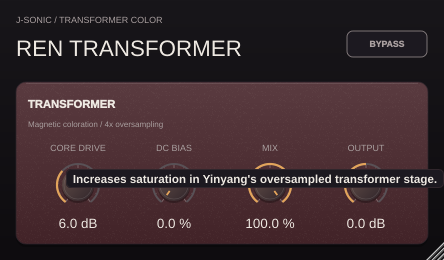
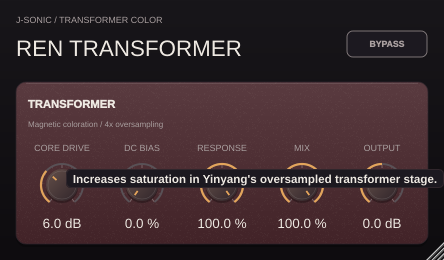
Add Response control to Ren Transformer

diff --git a/projects/RenTransformer/Tests/ProcessorTests.cpp b/projects/RenTransformer/Tests/ProcessorTests.cpp
@@ -6,6 +6,16 @@ namespace
 {
 void transformerTests()
 {
+    character::TransformerCore driveOnly;
+    driveOnly.prepare (192000);
+    double driveError = 0;
+    for (int i = 0; i < 2048; ++i)
+    {
+        const auto input = static_cast<float> (0.31 * std::sin (2 * juce::MathConstants<double>::pi * 233 * i / 192000.0));
+        const auto expected = std::tanh (2.0f * input) / 2.0f;
+        driveError = std::max (driveError, static_cast<double> (std::abs (driveOnly.process (input, 2.0f, 0.7f, 0.0f) - expected)));
+    }
+    check (driveError < 1.0e-6, "zero Response leaves only drive saturation in the transformer core");
     for (double rate : { 44100.0, 48000.0, 96000.0 })
         for (float coreDb : { 0.0f, 6.0f, 18.0f })
         {
@@ -32,6 +42,33 @@ void transformerTests()
             }
             check (error < 1.0e-6, "Ren matches the original Yinyang transformer at three rates and drive levels");
         }
+    {
+        RenTransformerProcessor p; set (p, "response", 0); set (p, "evenHarmonics", 0);
+        p.prepareToPlay (48000, 127);
+        character::OversampledTransformer reference; reference.prepare (48000);
+        juce::MidiBuffer midi;
+        double error = 0, fullDifference = 0;
+        character::OversampledTransformer full; full.prepare (48000);
+        for (int base = 0; base < 4096; base += 127)
+        {
+            juce::AudioBuffer<float> b (2, 127);
+            std::array<float, 127> expected {};
+            for (int i = 0; i < 127; ++i)
+            {
+                const auto input = static_cast<float> (0.3 * std::sin (2 * juce::MathConstants<double>::pi * 137 * (base + i) / 48000.0));
+                b.setSample (0, i, input); b.setSample (1, i, input);
+                const auto drive = juce::Decibels::decibelsToGain (6.0f);
+                expected[static_cast<size_t> (i)] = reference.process (input, drive, 0.0f, 0.0f);
+                const auto complete = full.process (input, drive);
+                if (base >= 1024) fullDifference += std::abs (expected[static_cast<size_t> (i)] - complete);
+            }
+            p.processBlock (b, midi);
+            for (int i = 0; i < 127; ++i)
+                error = std::max (error, static_cast<double> (std::abs (b.getSample (0, i) - expected[static_cast<size_t> (i)])));
+        }
+        check (fullDifference > 0.01, "Response endpoints produce distinct transformer sounds");
+        check (error < 1.0e-6, "Ren zero Response follows the drive-only transformer path");
+    }
     for (int mode = 0; mode < 4; ++mode)
     {
         RenTransformerProcessor p;
@@ -80,10 +117,10 @@ int main (int argc, char** argv)
     {
         juce::ScopedJuceInitialiser_GUI gui;
         verifyParameterRetention<RenTransformerProcessor>();
-        stateTests<RenTransformerProcessor> (6); transformerTests();
+        stateTests<RenTransformerProcessor> (7); transformerTests();
         blockSizeTests<RenTransformerProcessor>();
         if (argc > 2 && juce::String (argv[1]) == "--editor")
-            editorTests<RenTransformerProcessor> (juce::File (argv[2]), 260, 4, 444);
+            editorTests<RenTransformerProcessor> (juce::File (argv[2]), 260, 5, 444);
         std::cout << checks << " Ren Transformer checks passed\n"; return 0;
     }
     catch (const std::exception& error) { std::cerr << "FAIL: " << error.what() << '\n'; return 1; }

diff --git a/projects/YinyangCompressor/Source/TransformerCore.h b/projects/YinyangCompressor/Source/TransformerCore.h
@@ -33,33 +33,41 @@ public:
         for (auto& filter : distortionFilters) filter.reset();
         response.reset();
     }
-    float process (float x, float drive, float evenHarmonics) noexcept
+    float process (float x, float drive, float evenHarmonics, float responseAmount = 1.0f) noexcept
     {
-        // Filter only the generated-distortion residual below. Clean highs
-        // retain the transformer response.
+        // At full Response, filter only the generated-distortion residual.
+        // Ren can reduce both that rolloff and the loaded-transformer filter.
         const auto field = drive * x;
         const auto magnetization = hysteresis.process (field, drive);
         // The field/magnetization difference changes after a reversal. Scale
         // that branch gap to get a compact, rate-independent hysteresis loop.
         constexpr float hysteresisCoupling = 0.35f;
-        const auto effectiveField = field + hysteresisCoupling * (field - magnetization);
+        const auto coupling = hysteresisCoupling * responseAmount;
+        const auto effectiveField = field + coupling * (field - magnetization);
 
         flux = x + fluxCoefficient * (flux - x);
         // Flux adds a small signal-dependent bias for asymmetric coloration.
         // A controlled DC magnetizing current biases the core and makes its
         // transfer curve asymmetric, increasing even-order harmonics. The
         // zero setting preserves the original symmetric operating point.
-        const auto bias = 0.12f * std::tanh (flux * drive) + 0.8f * evenHarmonics;
+        const auto bias = responseAmount * (0.12f * std::tanh (flux * drive) + 0.8f * evenHarmonics);
         const auto b = std::tanh (bias);
         // Bias-corrected tanh, normalized for unity minor-loop small-signal
-        // slope. Filtering only (shaped - x) preserves clean highs while
-        // generated distortion rolls off above 500 Hz.
+        // slope. At full Response, filtering only (shaped - x) preserves clean
+        // highs while generated distortion rolls off above 500 Hz.
         const auto shaped = (std::tanh (effectiveField + bias) - b)
-                          / (drive * (1 + hysteresisCoupling) * (1 - b * b));
-        auto residual = shaped - x;
+                          / (drive * (1 + coupling) * (1 - b * b));
+        const auto rawResidual = shaped - x;
+        auto filteredResidual = rawResidual;
         for (auto& filter : distortionFilters)
-            residual = filter.process (residual);
-        return response.process (x + residual);
+            filteredResidual = filter.process (filteredResidual);
+        // Keep both filters warm at zero Response so automation does not bring
+        // stale filter memory into the sound when the knob rises again.
+        if (responseAmount >= 1.0f)
+            return response.process (x + filteredResidual);
+        const auto driven = x + rawResidual + responseAmount * (filteredResidual - rawResidual);
+        const auto coloured = response.process (driven);
+        return driven + responseAmount * (coloured - driven);
     }
 
 private:

diff --git a/projects/RenTransformer/Source/TransformerStage.h b/projects/RenTransformer/Source/TransformerStage.h
@@ -14,13 +14,14 @@ public:
     {
         for (auto& transformer : transformers) transformer.prepare (rate);
         cleanHistory = {}; bypassHistory = {}; position = 0;
-        for (auto* smoother : { &drive, &bias, &output, &mix, &enabledBlend, &bypassBlend })
+        for (auto* smoother : { &drive, &bias, &output, &mix, &response, &enabledBlend, &bypassBlend })
             smoother->reset (rate, 0.02);
         first = true; running = requested = false; warmSamples = 0;
     }
     bool isRunning() const noexcept { return running; }
     void process (juce::AudioBuffer<float>& buffer, float driveDb, float dcBias,
-                  float outputDb, float amount, bool enabled, bool bypassed) noexcept
+                  float outputDb, float amount, bool enabled, bool bypassed,
+                  float responseAmount = 1.0f) noexcept
     {
         // The nonlinear stage cannot contribute at zero Mix.
         // Existing fade-out and warm-up handling also applies to these states.
@@ -32,6 +33,7 @@ public:
         };
         set (drive, juce::Decibels::decibelsToGain (driveDb)); set (bias, dcBias);
         set (output, juce::Decibels::decibelsToGain (outputDb)); set (mix, amount);
+        set (response, std::clamp (responseAmount, 0.0f, 1.0f));
         set (bypassBlend, bypassed ? 1.0f : 0.0f);
         if (first)
         {
@@ -56,6 +58,7 @@ public:
             if (enabled && warmSamples > 0 && --warmSamples == 0) enabledBlend.setTargetValue (1.0f);
             const auto core = drive.getNextValue(), asymmetry = bias.getNextValue();
             const auto gain = output.getNextValue(), wet = mix.getNextValue();
+            const auto modeledResponse = response.getNextValue();
             const auto colour = enabledBlend.getNextValue(), bypass = bypassBlend.getNextValue();
             for (int channel = 0; channel < std::min (2, buffer.getNumChannels()); ++channel)
             {
@@ -64,7 +67,7 @@ public:
                 const auto input = std::isfinite (original) ? std::clamp (original, -32.0f, 32.0f) : 0.0f;
                 const auto clean = cleanHistory[c][position], dry = bypassHistory[c][position];
                 cleanHistory[c][position] = input * gain; bypassHistory[c][position] = input;
-                const auto coloured = running ? transformers[c].process (input * gain, core, asymmetry) : clean;
+                const auto coloured = running ? transformers[c].process (input * gain, core, asymmetry, modeledResponse) : clean;
                 const auto processed = clean + wet * colour * (coloured - clean);
                 buffer.setSample (channel, i, bypass >= 1.0f ? dry : processed + bypass * (dry - processed));
             }
@@ -78,6 +81,6 @@ private:
     size_t position = 0;
     int warmSamples = 0;
     bool first = true, running = false, requested = false;
-    juce::SmoothedValue<float> drive, bias, output, mix, enabledBlend, bypassBlend;
+    juce::SmoothedValue<float> drive, bias, output, mix, response, enabledBlend, bypassBlend;
 };
 }

diff --git a/projects/RenTransformer/Source/PluginEditor.cpp b/projects/RenTransformer/Source/PluginEditor.cpp
@@ -12,19 +12,20 @@ RenTransformerEditor::RenTransformerEditor (RenTransformerProcessor& p) : AudioP
     addAndMakeVisible (bypass);
     bypass.setTooltip ("Bypasses processing while preserving the plugin's latency.");
     bypassAttachment = std::make_unique<State::ButtonAttachment> (p.parameters, "bypass", bypass);
-    constexpr std::array<const char*, 4> ids { "drive", "evenHarmonics", "mix", "output" };
-    constexpr std::array<const char*, 4> names { "CORE DRIVE", "DC BIAS", "MIX", "OUTPUT" };
-    constexpr std::array<const char*, 4> units { " dB", " %", " %", " dB" };
-    constexpr std::array<const char*, 4> hints {
+    constexpr std::array<const char*, 5> ids { "drive", "evenHarmonics", "response", "mix", "output" };
+    constexpr std::array<const char*, 5> names { "CORE DRIVE", "DC BIAS", "RESPONSE", "MIX", "OUTPUT" };
+    constexpr std::array<const char*, 5> units { " dB", " %", " %", " %", " dB" };
+    constexpr std::array<const char*, 5> hints {
         "Increases saturation in Yinyang's oversampled transformer stage.",
         "Adds transformer asymmetry to increase even harmonics.",
+        "Blends from drive-only saturation to the full filter and hysteresis response.",
         "Blends transformer coloration with the latency-aligned clean signal.",
         "Adjusts output gain before the transformer, also changing its input level." };
     for (size_t i = 0; i < sliders.size(); ++i)
     {
         auto& slider = sliders[i];
         slider.setSliderStyle (juce::Slider::RotaryHorizontalVerticalDrag);
-        slider.setTextBoxStyle (juce::Slider::TextBoxBelow, false, 96, 18);
+        slider.setTextBoxStyle (juce::Slider::TextBoxBelow, false, 76, 18);
         slider.setColour (juce::Slider::textBoxOutlineColourId, juce::Colours::transparentBlack);
         slider.setColour (juce::Slider::textBoxTextColourId, foreground);
         slider.setTextValueSuffix (units[i]); slider.setName (names[i]); slider.setTitle (names[i]);
@@ -47,9 +48,9 @@ void RenTransformerEditor::resized()
     bypass.setBounds (346, 30, 82, 28);
     for (size_t i = 0; i < sliders.size(); ++i)
     {
-        const auto x = 30 + static_cast<int> (i) * 96;
-        labels[i].setBounds (x, 140, 96, 16);
-        sliders[i].setBounds (x, 156, 96, 76);
+        const auto x = 24 + static_cast<int> (i) * 80;
+        labels[i].setBounds (x, 140, 76, 16);
+        sliders[i].setBounds (x, 156, 76, 76);
     }
     const auto scale = editorScaling::transform (*this, designWidth, designHeight);
     titleHint.setTransform (scale);

diff --git a/projects/RenTransformer/Source/PluginProcessor.cpp b/projects/RenTransformer/Source/PluginProcessor.cpp
@@ -17,6 +17,7 @@ juce::AudioProcessorValueTreeState::ParameterLayout RenTransformerProcessor::cre
     add ("mix", "Mix", 0, 100, 0.1f, 100, "%");
     result.add (std::make_unique<juce::AudioParameterBool> (juce::ParameterID { "transformer", 1 }, "Transformer", true));
     result.add (std::make_unique<juce::AudioParameterBool> (juce::ParameterID { "bypass", 1 }, "Bypass", false));
+    add ("response", "Response", 0, 100, 0.1f, 100, "%");
     return result;
 }
 RenTransformerProcessor::RenTransformerProcessor()
@@ -57,7 +58,8 @@ void RenTransformerProcessor::processBlock (juce::AudioBuffer<float>& buffer, ju
         parameters.getRawParameterValue ("output")->load(),
         parameters.getRawParameterValue ("mix")->load() * 0.01f,
         parameters.getRawParameterValue ("transformer")->load() >= 0.5f,
-        parameters.getRawParameterValue ("bypass")->load() >= 0.5f);
+        parameters.getRawParameterValue ("bypass")->load() >= 0.5f,
+        parameters.getRawParameterValue ("response")->load() * 0.01f);
 }
 void RenTransformerProcessor::processBlockBypassed (juce::AudioBuffer<float>& buffer, juce::MidiBuffer&)
 {
@@ -66,5 +68,6 @@ void RenTransformerProcessor::processBlockBypassed (juce::AudioBuffer<float>& bu
         parameters.getRawParameterValue ("evenHarmonics")->load() * 0.01f,
         parameters.getRawParameterValue ("output")->load(),
         parameters.getRawParameterValue ("mix")->load() * 0.01f,
-        parameters.getRawParameterValue ("transformer")->load() >= 0.5f, true);
+        parameters.getRawParameterValue ("transformer")->load() >= 0.5f, true,
+        parameters.getRawParameterValue ("response")->load() * 0.01f);
 }

diff --git a/projects/YinyangCompressor/Source/OversampledTransformer.h b/projects/YinyangCompressor/Source/OversampledTransformer.h
@@ -18,10 +18,11 @@ public:
         converter.prepare(); core.prepare (sampleRate * factor);
     }
     void reset() noexcept { converter.reset(); core.reset(); }
-    float process (float input, float drive, float evenHarmonics = 0) noexcept
+    float process (float input, float drive, float evenHarmonics = 0,
+                   float responseAmount = 1.0f) noexcept
     {
         auto frame = converter.upsample (input);
-        for (auto& sample : frame) sample = core.process (sample, drive, evenHarmonics);
+        for (auto& sample : frame) sample = core.process (sample, drive, evenHarmonics, responseAmount);
         return converter.downsample (frame);
     }
 private:

diff --git a/projects/RenTransformer/Source/PluginEditor.h b/projects/RenTransformer/Source/PluginEditor.h
@@ -17,10 +17,10 @@ private:
     juce::TooltipWindow tooltipWindow { this };
     editorTooltips::TitleHint titleHint { JucePlugin_VersionString };
     StageBypassButton bypass;
-    std::array<juce::Slider, 4> sliders;
-    std::array<juce::Label, 4> labels;
+    std::array<juce::Slider, 5> sliders;
+    std::array<juce::Label, 5> labels;
     using State = juce::AudioProcessorValueTreeState;
-    std::array<std::unique_ptr<State::SliderAttachment>, 4> attachments;
+    std::array<std::unique_ptr<State::SliderAttachment>, 5> attachments;
     std::unique_ptr<State::ButtonAttachment> bypassAttachment;
     JUCE_DECLARE_NON_COPYABLE_WITH_LEAK_DETECTOR (RenTransformerEditor)
 };

diff --git a/projects/RenTransformer/Tests/REPORT.md b/projects/RenTransformer/Tests/REPORT.md
@@ -6,10 +6,11 @@ transformer independently. No compressor or sidechain is instantiated by Ren.
 | Feature | Verification |
 | --- | --- |
 | Transformer reuse | Compare every rendered sample with `character::OversampledTransformer` at 44.1, 48 and 96 kHz, with 0/6/18 dB Core Drive, 35% DC Bias and +3 dB Output; maximum allowed absolute error is 1e-6. |
+| Response | At 0%, the core matches drive-only `tanh` saturation within 1e-6 even with DC Bias set; Ren's output matches the 0% oversampled reference and differs from the 100% output. |
 | Output stage | With Core Off or Mix at zero, a stereo impulse returns at sample 64 with the selected Output gain. |
 | Bypass | Both host bypass and the Bypass parameter return the original stereo impulse at sample 64 without Output gain. |
 | CPU saving | The wrapper's running state becomes false after the Off fade and restarts after warming when enabled. |
-| Host compatibility | Six exposed parameters survive binary state save/restore, and the host bypass parameter is registered. |
+| Host compatibility | Seven exposed parameters survive binary state save/restore, and the host bypass parameter is registered. |
 | Layouts and buffer sizes | Mono and stereo processing are exercised; 1/127/512-sample blocks must render the same signal within 1e-6. |
 | Editor | Native control initialization, UI/host parameter changes and one-sentence tooltips are checked in the compact single-panel layout. |
 | Scaling | Every interactive control remains inside the editor and passes pointer hit testing at 50% and 120%. |
@@ -19,15 +20,11 @@ a real JUCE tooltip. Build and preview reproduction commands are in the project
 [README](../README.md). macOS AU and native Windows/macOS host validation require
 those platforms.
 
-## Results — 2026-10-21
+## Results — 2026-11-16
 
-Linux Release VST3 and Standalone builds passed without compiler warnings.
-All 37 processor/DSP checks passed; the native editor run passed 67 checks
-including tooltip rendering and both scaling limits. Yinyang's three existing
-CTest suites also passed. Windows workflows were not changed or run.
-
-The compact editor measures 444 × 260 at 100% scale and places Core Drive,
-DC Bias, Mix, and Output in a single row with 96-pixel spacing and symmetric
-side margins. The Core switch is removed from the editor; the existing host
-parameter and saved-state compatibility remain intact. Kuo Velvet's shared
-editor helper validation also passed all 72 checks.
+Linux Release VST3 built successfully. The processor run passed 44 checks;
+the editor run passed 79 checks, including tooltip rendering and 50%/120%
+scaling. The compact editor remains 444 × 260 and displays five knobs in one
+row, with Output at the right edge. The shared-core regressions also passed:
+1,325 Yinyang DSP checks, 3,370 Yinyang processor checks, and 3,145 Zao
+processor checks.

diff --git a/README.md b/README.md
@@ -26,7 +26,7 @@ fallback. See [GPU rendering and validation](projects/GPU_RENDERING.md).
 | [Shun De-Esser](projects/ShunDeEsser/README.md) | `ShunDeEsser` | Sibilance control | Four attenuation modes, relative detection, separate detector and attenuator tuning |
 | [Kuo Stereo](projects/KuoStereo/README.md) | `KuoStereo` | Stereo widening | Adaptive Haas delay, Velvet convolution, spectral transient protection, three-band sound-field meters |
 | [Zao Drive](projects/ZaoDrive/README.md) | `ZaoDrive` | Overdrive | Four circuit models, Smart harmonic shaping, Clear contour, waveform preview, Auto compensation |
-| [Ren Transformer](projects/RenTransformer/README.md) | `RenTransformer` | Transformer coloration | Yinyang's transformer stage in a compact four-knob interface |
+| [Ren Transformer](projects/RenTransformer/README.md) | `RenTransformer` | Transformer coloration | Yinyang's transformer stage with adjustable Response in a compact five-knob interface |
 | [Kuo Velvet](projects/KuoVelvet/README.md) | `KuoVelvet` | Convolution widening | Kuo's Velvet stage with Width, Transient, Attack, and Output controls |
 | [Xuan Phase](projects/XuanPhase/README.md) | `XuanPhase` | Phase rotation | Independent low/high rotation, 25 ms lookahead, spectral transient alignment and Auto Depth |
 | [Lan Reverb](projects/LanReverb/README.md) | `LanReverb` | Reverb / delay | Long stereo tails, live feedback-tap scattering, automatic resonance EQ and phase dispersion |
@@ -115,10 +115,11 @@ Bias for BJT, Input for op-amp, and Knee for the two passive diode modes.
 
 ### Ren Transformer
 
-![Ren Transformer's compact panel with Core Drive, DC Bias, Mix, and Output knobs and a hover hint](projects/RenTransformer/Previews/ren-transformer-tooltip.png)
+![Ren Transformer's compact panel with Core Drive, DC Bias, Response, Mix, and Output knobs and a hover hint](projects/RenTransformer/Previews/ren-transformer-tooltip.png)
 
 Use Yinyang's transformer independently: **Core Drive** sets saturation,
-**DC Bias** introduces asymmetry, **Mix** blends coloration, and **Output**
+**DC Bias** introduces asymmetry, **Response** moves from drive-only saturation
+to the full modeled filter and hysteresis, **Mix** blends coloration, and **Output**
 sets the level entering the transformer. The shared stage uses 4× oversampling,
 magnetic hysteresis, and a frequency-dependent transformer response.
 

diff --git a/projects/RenTransformer/README.md b/projects/RenTransformer/README.md
@@ -3,14 +3,18 @@
 Ren Transformer isolates Yinyang Compressor's transformer and output controls in
 an independent J-SONIC plugin, with the same ebony panels, amber knobs,
 one-sentence hover hints, and 50–120% scalable editor. The compact 444 × 260
-interface places Core Drive, DC Bias, Mix, and Output together in one row.
+interface places Core Drive, DC Bias, Response, Mix, and Output together in one row.
 
 ![Native editor with tooltip](Previews/ren-transformer-tooltip.png)
 
 The DSP directly includes Yinyang's `OversampledTransformer`: 4× oversampling,
 magnetic hysteresis, frequency-dependent transformer response, and DC bias.
 There is no compressor or sidechain detector. Core Drive spans 0–18 dB and DC
-Bias spans 0–100%. The transformer starts enabled. Its legacy enable parameter
+Bias spans 0–100%. Response spans 0–100%: at 0% the stage keeps only oversampled
+drive saturation, while at 100% it retains the original hysteresis, DC bias,
+distortion rolloff, and frequency-dependent transformer response. Intermediate
+values blend the modeled effects, with 20 ms smoothing during automation.
+The transformer starts enabled. Its legacy enable parameter
 remains available to host automation and saved states, with no switch in the
 compact interface; disabling it still stops transformer processing after a fade.
 Mix at 0% also suspends the transformer after its fade; raising Mix warms its
@@ -22,7 +26,7 @@ Yinyang's signal order, so it also affects saturation. Mix blends the colored
 and clean paths after that gain; here it controls transformer coloration rather
 than compression. Both paths have 64 samples of latency at every sample rate.
 Host bypass and the Bypass button return the original input with the same delay.
-All six parameters support automation and state restoration. Mono and stereo
+All seven parameters support automation and state restoration. Mono and stereo
 layouts are supported.
 
 ## Build and test

diff --git a/projects/RenTransformer/TOOLTIPS.md b/projects/RenTransformer/TOOLTIPS.md
@@ -5,6 +5,7 @@
 | Plugin title | Developer: J-Sonic Team; Year: 2026; Version: 0.7.5 |
 | Core Drive | Increases saturation in Yinyang's oversampled transformer stage. |
 | DC Bias | Adds transformer asymmetry to increase even harmonics. |
+| Response | Blends from drive-only saturation to the full filter and hysteresis response. |
 | Mix | Blends transformer coloration with the latency-aligned clean signal. |
 | Output | Adjusts output gain before the transformer, also changing its input level. |
 | Bypass | Bypasses processing while preserving the plugin's latency. |
